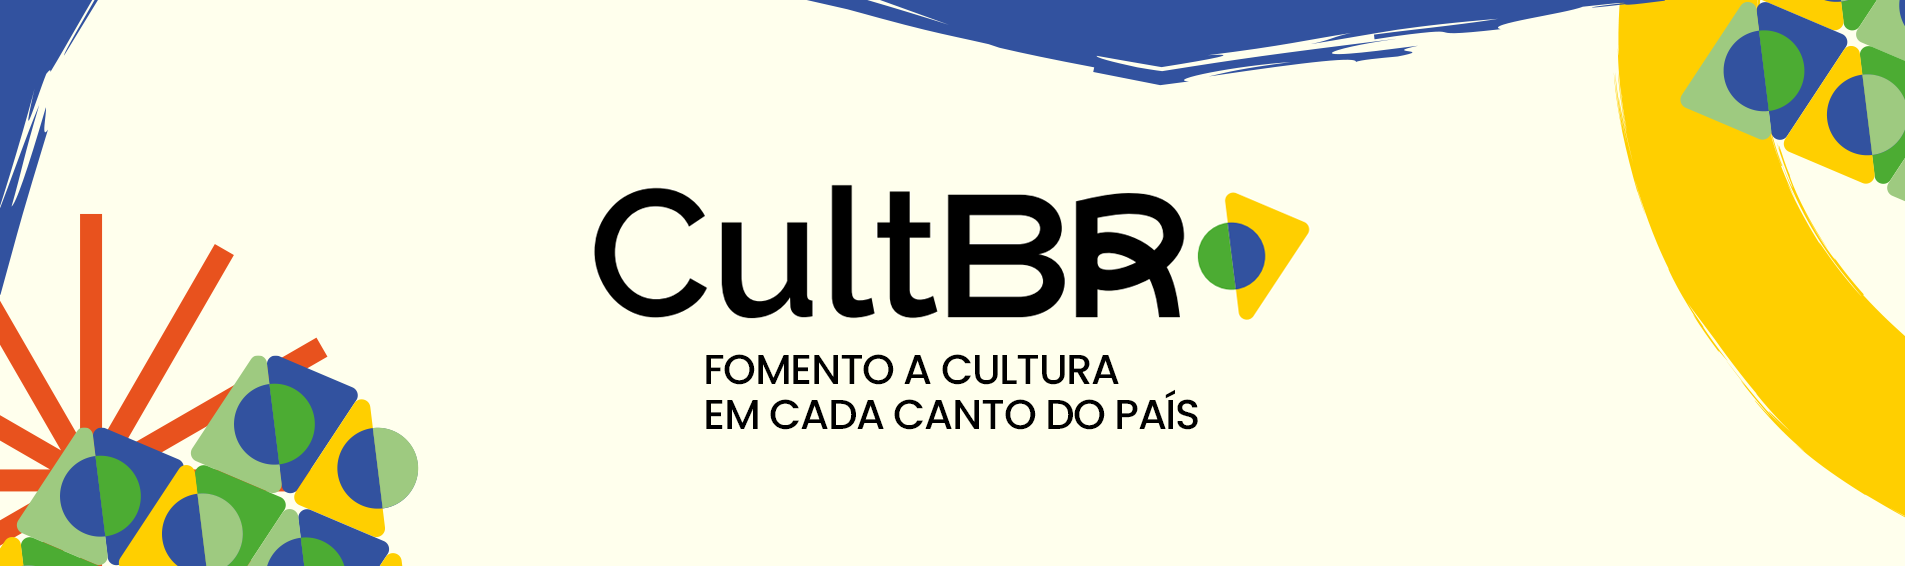
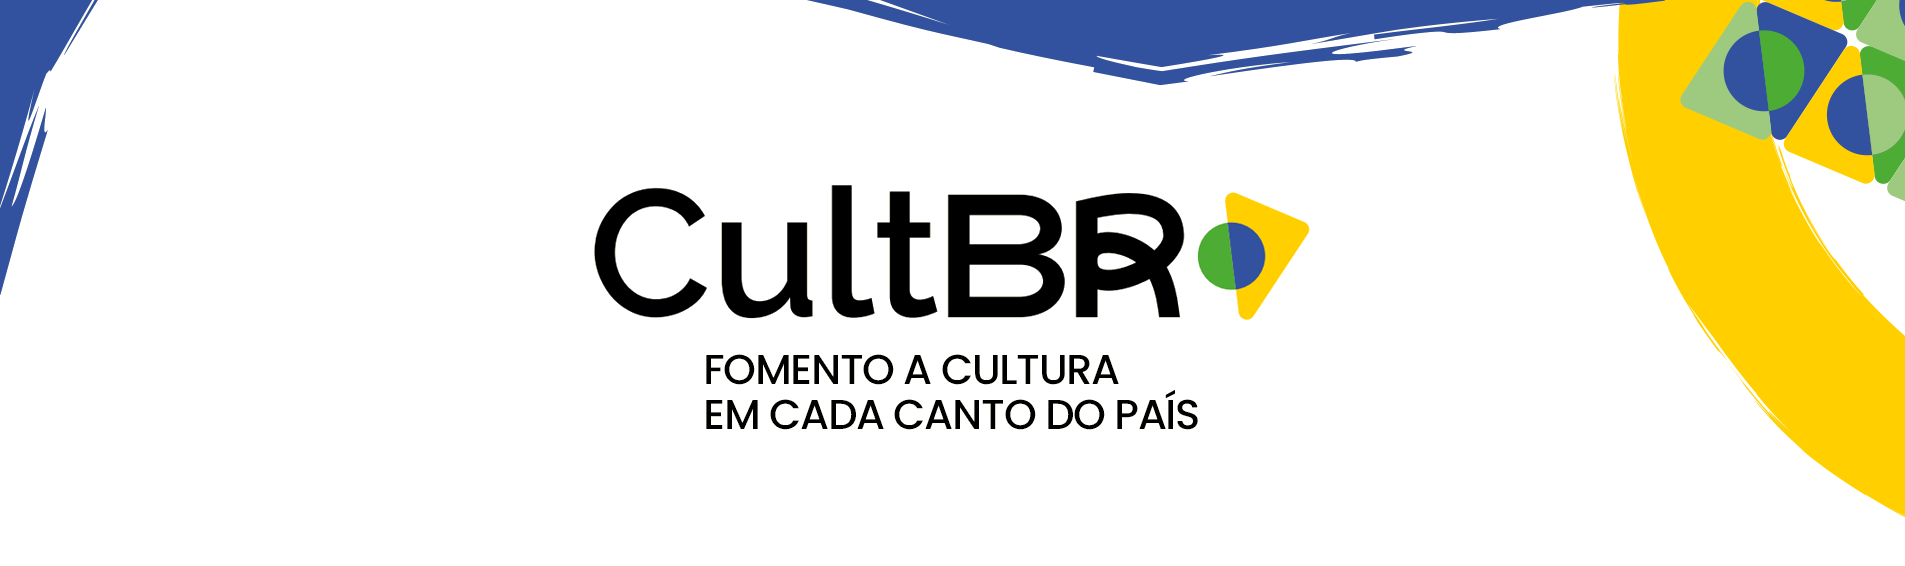
fix: ajustando posicionamento das imagens

Changed region(s): [[0.0, 0.3604, 0.2168, 1.0]]

diff --git a/components/home-header/script.js b/components/home-header/script.js
@@ -1,0 +1,109 @@
+app.component('home-header', {
+    template: $TEMPLATES['home-header'],
+
+    setup() {
+        const text = Utils.getTexts('home-header');
+        return { text };
+    },
+
+    data() {
+        return {
+            subsite: $MAPAS.subsite ?? {},
+
+            banner: $MAPAS.config.homeHeader.banner,
+            bannerLink: $MAPAS.config.homeHeader.bannerLink,
+            downloadableLink: $MAPAS.config.homeHeader.downloadableLink,
+
+            secondBanner: $MAPAS.config.homeHeader.secondBanner,
+            secondBannerLink: $MAPAS.config.homeHeader.secondBannerLink,
+            secondDownloadableLink: $MAPAS.config.homeHeader.secondDownloadableLink,
+
+            thirdBanner: $MAPAS.config.homeHeader.thirdBanner,
+            thirdBannerLink: $MAPAS.config.homeHeader.thirdBannerLink,
+            thirdDownloadableLink: $MAPAS.config.homeHeader.thirdDownloadableLink,
+
+            _parallaxEl: null,
+            _parallaxCurrent: 0,
+            _parallaxLoopActive: false,
+            _parallaxRafId: null,
+            _parallaxOnScroll: null,
+        };
+    },
+
+    computed: {
+        background() {
+            if (this.subsite?.files?.header) {
+                return this.subsite.files.header.url;
+            }
+            return $MAPAS.config.homeHeader.background;
+        },
+    },
+
+    mounted() {
+        this._parallaxEl = this.$el.querySelector('.home-header__parallax');
+        if (!this._parallaxEl) {
+            return;
+        }
+        if (window.matchMedia('(prefers-reduced-motion: reduce)').matches) {
+            return;
+        }
+        this._parallaxOnScroll = () => this._requestParallaxFrame();
+        window.addEventListener('scroll', this._parallaxOnScroll, { passive: true });
+        this._requestParallaxFrame();
+    },
+
+    beforeUnmount() {
+        if (this._parallaxOnScroll) {
+            window.removeEventListener('scroll', this._parallaxOnScroll);
+        }
+        if (this._parallaxRafId != null) {
+            cancelAnimationFrame(this._parallaxRafId);
+        }
+    },
+
+    methods: {
+        _parallaxMaxShiftPx() {
+            return window.innerWidth <= 768 ? 10 : 18;
+        },
+
+        _requestParallaxFrame() {
+            if (!this._parallaxEl || this._parallaxLoopActive) {
+                return;
+            }
+            this._parallaxLoopActive = true;
+            this._parallaxRafId = requestAnimationFrame(() => this._parallaxStep());
+        },
+
+        _parallaxStep() {
+            if (!this._parallaxEl) {
+                this._parallaxLoopActive = false;
+                return;
+            }
+
+            const maxShift = this._parallaxMaxShiftPx();
+            const scrollY = window.scrollY || 0;
+            const target = Math.max(
+                -maxShift,
+                Math.min(maxShift, scrollY * 0.04),
+            );
+
+            this._parallaxCurrent += (target - this._parallaxCurrent) * 0.18;
+
+            this._parallaxEl.style.setProperty(
+                '--home-header-parallax-y',
+                `${this._parallaxCurrent.toFixed(2)}px`,
+            );
+
+            if (Math.abs(target - this._parallaxCurrent) > 0.02) {
+                this._parallaxRafId = requestAnimationFrame(() => this._parallaxStep());
+            } else {
+                this._parallaxCurrent = target;
+                this._parallaxEl.style.setProperty(
+                    '--home-header-parallax-y',
+                    `${this._parallaxCurrent.toFixed(2)}px`,
+                );
+                this._parallaxLoopActive = false;
+            }
+        },
+    },
+});

diff --git a/assets-src/sass/components/_home-description.scss b/assets-src/sass/components/_home-description.scss
@@ -1,18 +1,36 @@
-// Imagem de fundo: 1905 x 921 px (proporção 1905/921)
+// Antes: cover com _background.png (1905×921) + aspect-ratio — o bloco de texto ficava
+// verticalmente centrado numa faixa alta, com bastante ar entre header e título. Sem o
+// ratio, só padding vertical comprimia esse espaço; o padding-top maior recupera o ritmo.
 .home-network {
+  position: relative;
+  overflow: hidden;
   width: 100%;
-  aspect-ratio: 1905 / 921;
   min-height: 420px;
-  background-color: #FEFAF6;
-  background-repeat: no-repeat;
-  background-position: center center;
-  background-size: cover;
-  background-origin: padding-box;
-  padding: size(80) size(16);
+  background-color: #ffffed;
+  padding-block-start: clamp(#{size(96)}, calc(#{size(48)} + 7vw), #{size(200)});
+  // Mais ar entre o fim do texto e a arte do canto (antes vinha “empurrado” pelo cover alto).
+  padding-block-end: clamp(#{size(112)}, calc(#{size(80)} + 6vw), #{size(240)});
+  padding-inline: size(16);
   display: flex;
   align-items: center;
   justify-content: center;
   box-sizing: border-box;
+
+  &::after {
+    content: '';
+    position: absolute;
+    right: 0;
+    bottom: 0;
+    z-index: 0;
+    width: min(85vw, 1138px);
+    max-width: 100%;
+    aspect-ratio: 1138 / 519;
+    pointer-events: none;
+    background-image: var(--home-network-decoration, none);
+    background-repeat: no-repeat;
+    background-position: right bottom;
+    background-size: contain;
+  }
 
   &__container {
     display: flex;

diff --git a/assets-src/sass/components/_home-header.scss b/assets-src/sass/components/_home-header.scss
@@ -1,3 +1,48 @@
+// parallax.png: 1742×2497 (canvas alto; o cluster útil fica na base esquerda). Ancorado no
+// canto inferior esquerdo do header e deslocado 50% para baixo = centro na junção com
+// .home-network, como no mock único de HMG2.
+.home-header {
+  background: #ffffed;
+  overflow: visible;
+
+  &__background {
+    background-color: #ffffed;
+  }
+
+  &__parallax {
+    position: absolute;
+    // Sass não aceita misturar unidades dentro de clamp()/min() nativos; emitimos CSS literal.
+    left: #{'clamp(#{size(-24)}, -1.5vw, 0px)'};
+    bottom: 0;
+    z-index: 1;
+    width: #{'min(36vw, #{size(420)})'};
+    max-width: 52%;
+    pointer-events: none;
+    will-change: transform;
+    transform: translate3d(0, calc(50% + var(--home-header-parallax-y, 0px)), 0);
+    line-height: 0;
+
+    img {
+      display: block;
+      width: 100%;
+      height: auto;
+      max-height: #{'min(70vh, #{size(640)})'};
+      object-fit: contain;
+      object-position: left bottom;
+    }
+
+    @media (max-width: 768px) {
+      width: #{'min(42vw, #{size(260)})'};
+      max-width: 58%;
+      transform: translate3d(0, calc(45% + var(--home-header-parallax-y, 0px)), 0);
+
+      img {
+        max-height: #{'min(50vh, #{size(420)})'};
+      }
+    }
+  }
+}
+
 .hero-banner {
   background-color: #2F4795;
   color: white;

diff --git a/components/home-header/template.php b/components/home-header/template.php
@@ -1,0 +1,63 @@
+<?php
+/**
+ * @var MapasCulturais\App $app
+ * @var \Pnab\Theme $this
+ */
+
+use MapasCulturais\i;
+
+$this->import('
+    home-search
+');
+
+$parallax_url = $this->asset('img/home/home-header/parallax.png', false);
+?>
+
+<div :class="['home-header', {'home-header--withBanner' : banner}] ">
+    <div class="home-header__content">
+
+        <div class="home-header__main">
+            <label class="home-header__title">
+                <?= $this->text('title', i::__('Boas vindas ao Mapa Cultural')) ?>
+            </label>
+            <p class="home-header__description">
+                <?= $this->text('description', i::__('O Mapas Culturais é uma ferramenta de gestão cultural, que garante a estruturação de Sistemas de Informações e Indicadores. A plataforma oferece soluções para o mapeamento colaborativo de agentes culturais, realização de todas as etapas de editais e fomentos, organização de uma agenda cultural e divulgação espaços culturais dos territórios.')) ?>
+            </p>
+        </div>
+
+        <div v-if="banner || secondBanner" class="home-header__banners">
+            <div v-if="banner" class="home-header__banner">
+                <a v-if="bannerLink" :href="bannerLink" :download="downloadableLink ? '' : undefined"  :target="!downloadableLink ? '_blank' : null">
+                    <img :src="banner" />
+                </a>
+                <img v-if="!bannerLink" :src="banner" />
+            </div>
+
+            <div v-if="secondBanner" class="home-header__banner">
+                <a v-if="secondBannerLink" :href="secondBannerLink" :download="secondDownloadableLink ? '' : undefined"  :target="!secondDownloadableLink ? '_blank' : null">
+                    <img :src="secondBanner" />
+                </a>
+                <img v-if="!secondBannerLink" :src="secondBanner" />
+            </div>
+
+            <div v-if="thirdBanner" class="home-header__banner">
+                <a v-if="thirdBannerLink" :href="thirdBannerLink" :download="thirdDownloadableLink ? '' : undefined"  :target="!thirdDownloadableLink ? '_blank' : null">
+                    <img :src="thirdBanner" />
+                </a>
+                <img v-if="!thirdBannerLink" :src="thirdBanner" />
+            </div>
+        </div>
+
+    </div>
+    <div class="home-header__background">
+        <div class="img">
+            <img :src="background" />
+        </div>
+    </div>
+    <?php if ($parallax_url) : ?>
+        <div class="home-header__parallax" aria-hidden="true">
+            <img src="<?= htmlspecialchars($parallax_url, ENT_QUOTES, 'UTF-8') ?>" alt="" width="1742" height="2497" decoding="async" />
+        </div>
+    <?php endif; ?>
+    <!-- <home-search></home-search> -->
+</div>

diff --git a/components/home-description/template.php b/components/home-description/template.php
@@ -6,10 +6,19 @@
 
 use MapasCulturais\i;
 
-$bg_url = $app->view->asset('img/home/home-description/background.png', false);
+$decoration_bottom_right_url = $app->view->asset(
+    'img/home/home-description/background-bottom-right.png',
+    false
+);
 ?>
 
-<section class="home-network"<?= $bg_url ? ' style="background-image: url(\'' . addslashes($bg_url) . '\');"' : '' ?>>
+<section
+    class="home-network"
+    <?= $decoration_bottom_right_url
+        ? ' style="--home-network-decoration: url(\'' . addslashes($decoration_bottom_right_url) . '\');"'
+        : ''
+    ?>
+>
     <div class="home-network__container">
         <div class="home-network__text">
             <h2 class="title">A Política Nacional Aldir Blanc</h2>
